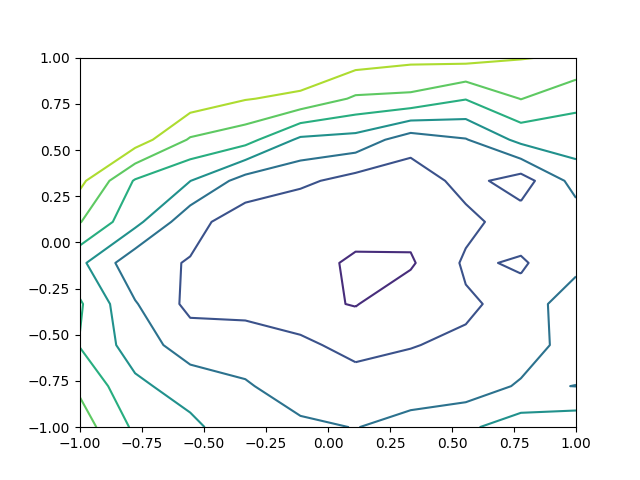
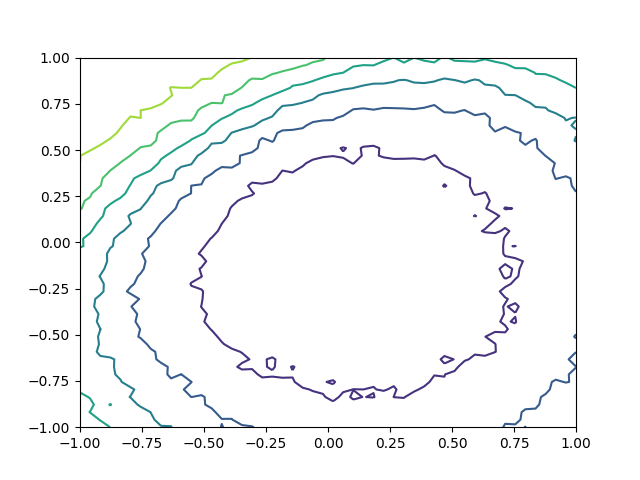
Added high res figure

diff --git a/loss_landscape.py b/loss_landscape.py
@@ -85,9 +85,9 @@ def main(args=None):
     A = []
     B = []
 
-    n_x = 10
-    n_y = 10
-    n_samples = 10
+    n_x = 50
+    n_y = 50
+    n_samples = 100
 
     for l in layers:
         W, b = model.G.layers[l].get_weights()
